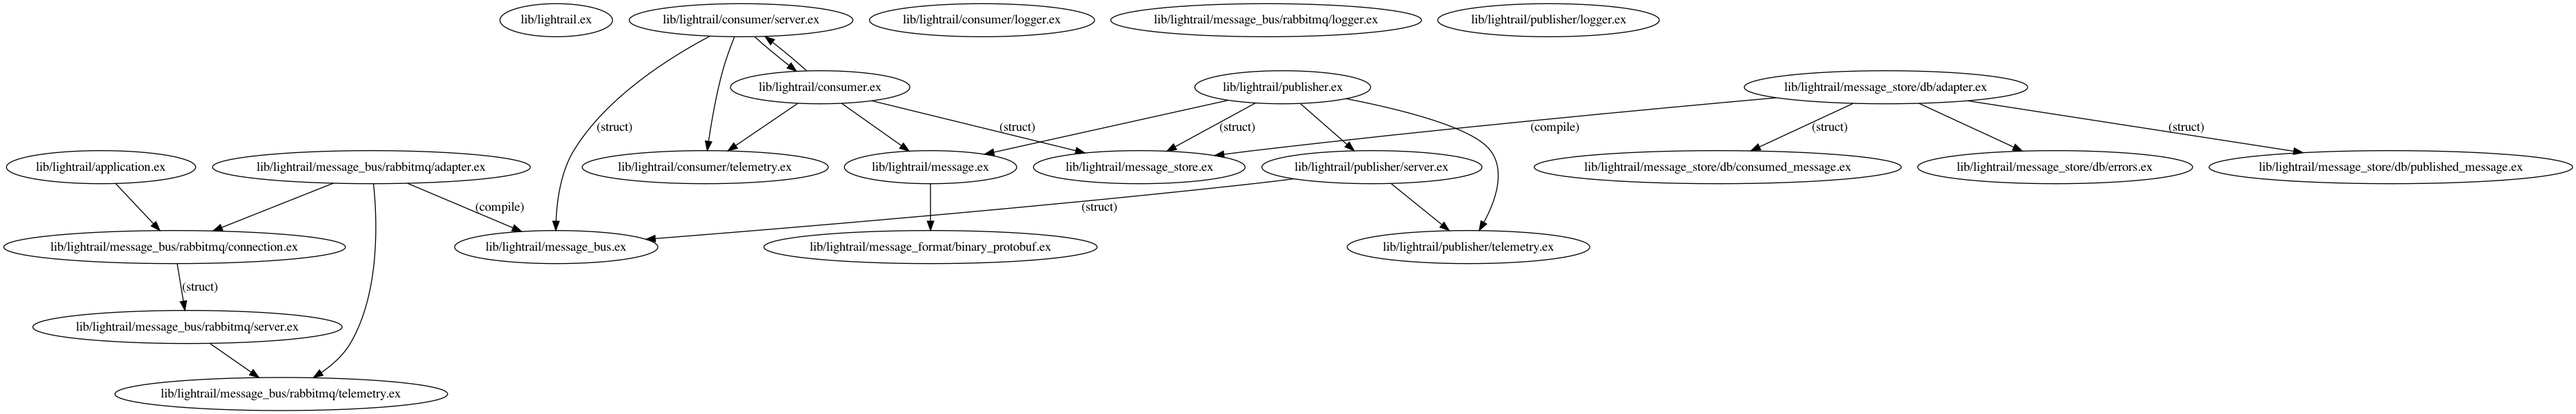
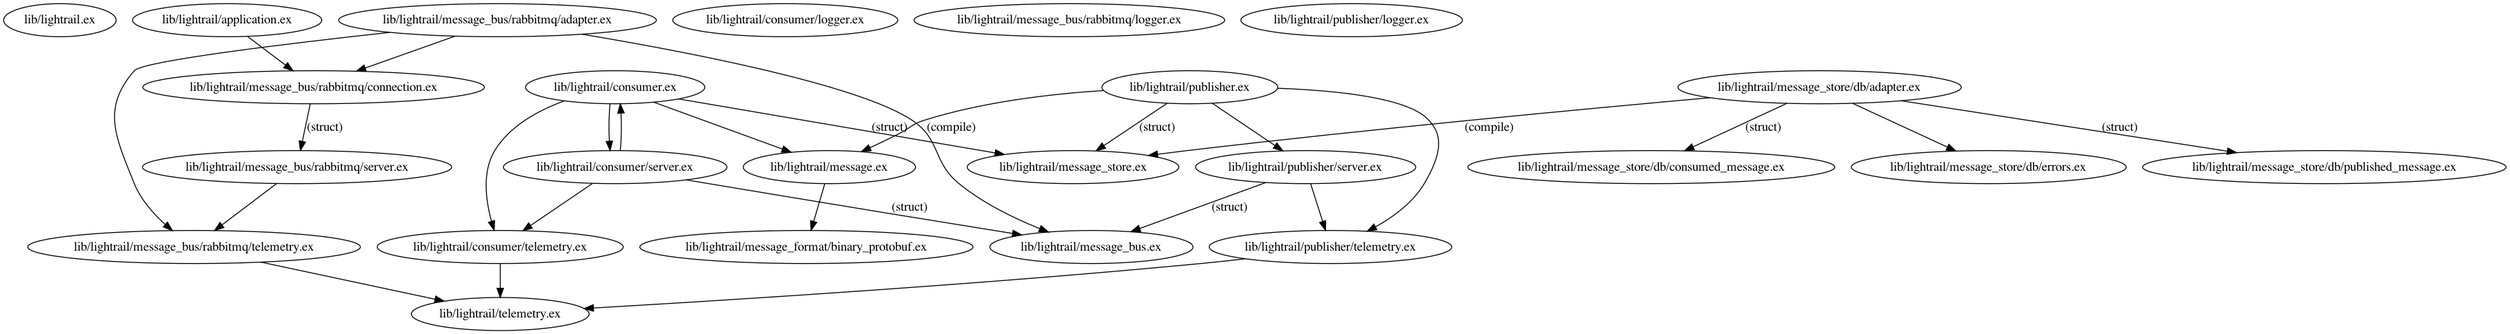
Telemetry wrapper
Create a `Lightrail.Telemetry` wrapper module for interfacing w/ the
Telemetry library. Refactor module specific telemetry code to use it.

diff --git a/README.md b/README.md
@@ -85,8 +85,8 @@ This is a non-exhaustive list of things in no particular order that I'd like to 
 - [ ] row locking for consumed messages to prevent concurrent processing
 - [ ] remove specs from non-public API modules
 - [ ] mix task for generating migrations
-- [ ] setup telemetry for publisher genserver
-- [ ] setup telemetry for consumer genserver
+- [x] setup telemetry for publisher genserver
+- [x] setup telemetry for consumer genserver
 - [x] setup telemetry for MessageBus.RabbitMQ
 - [x] replace all hard-coded rabbitmq connection strings in tests
 - [x] fix TODOs in Publisher
